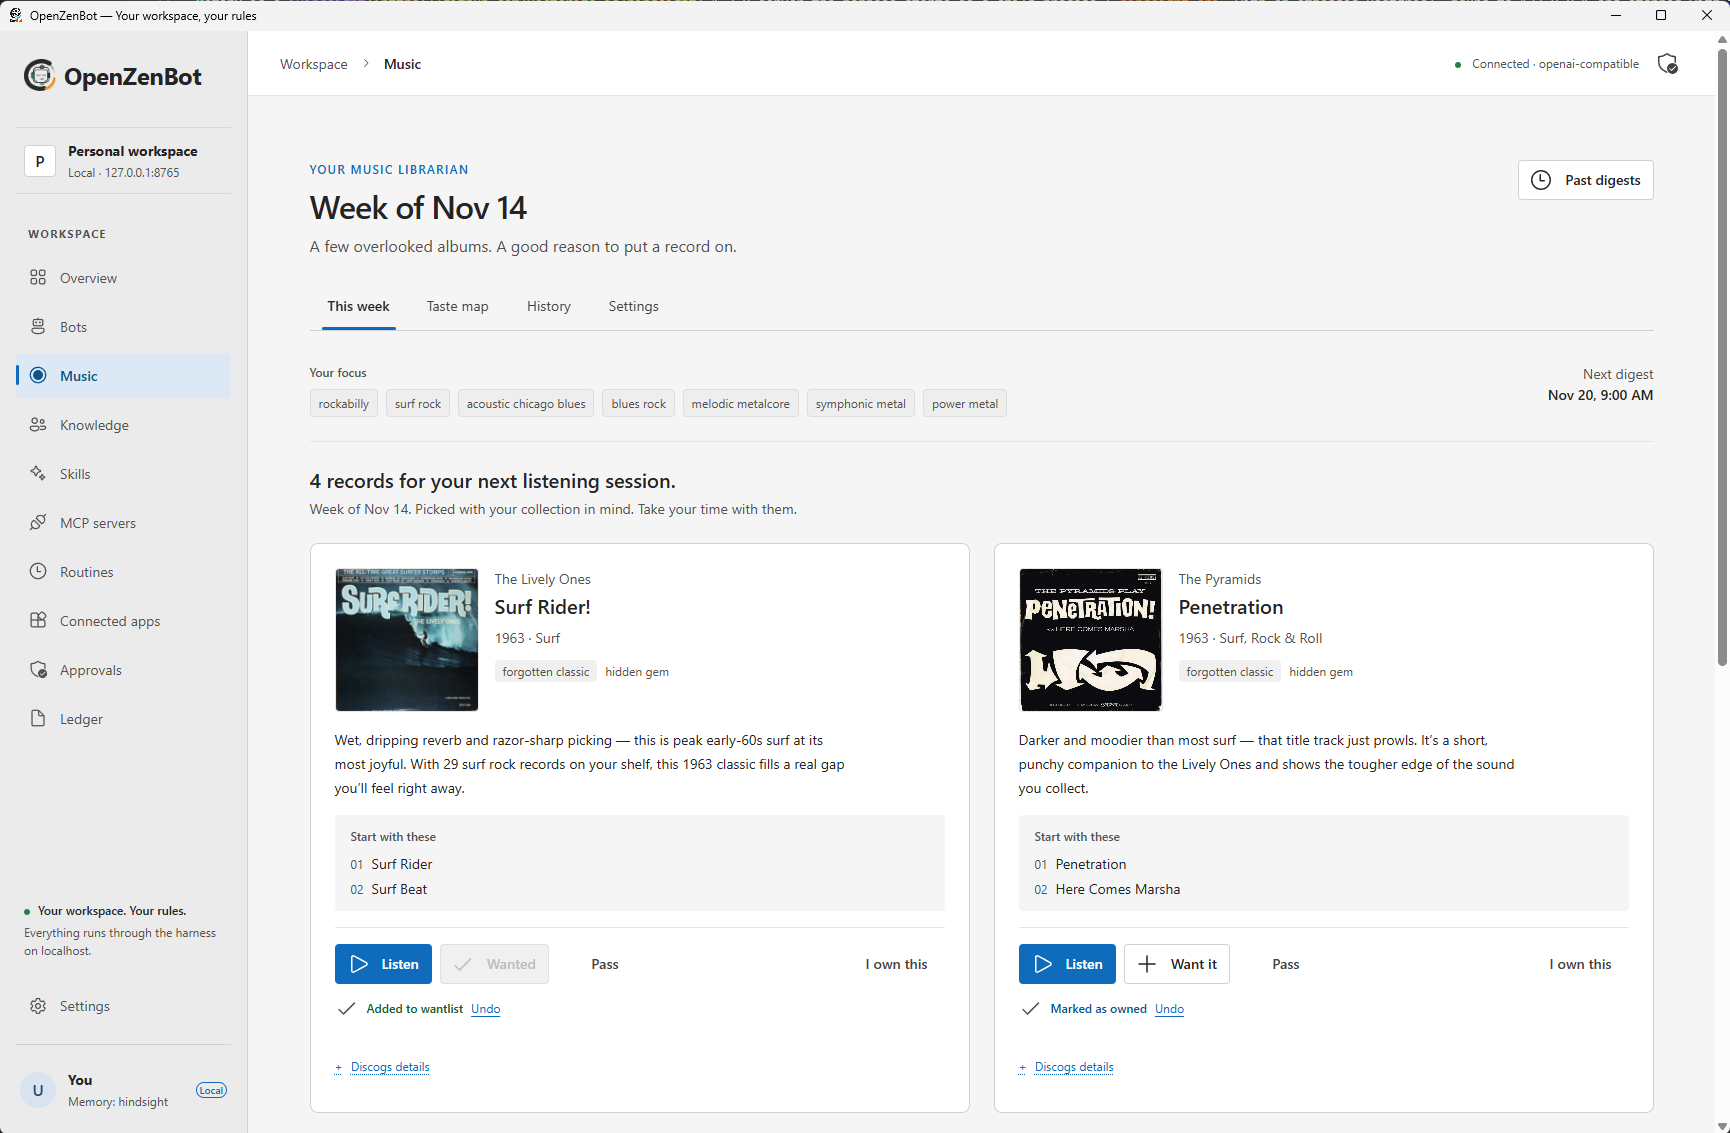
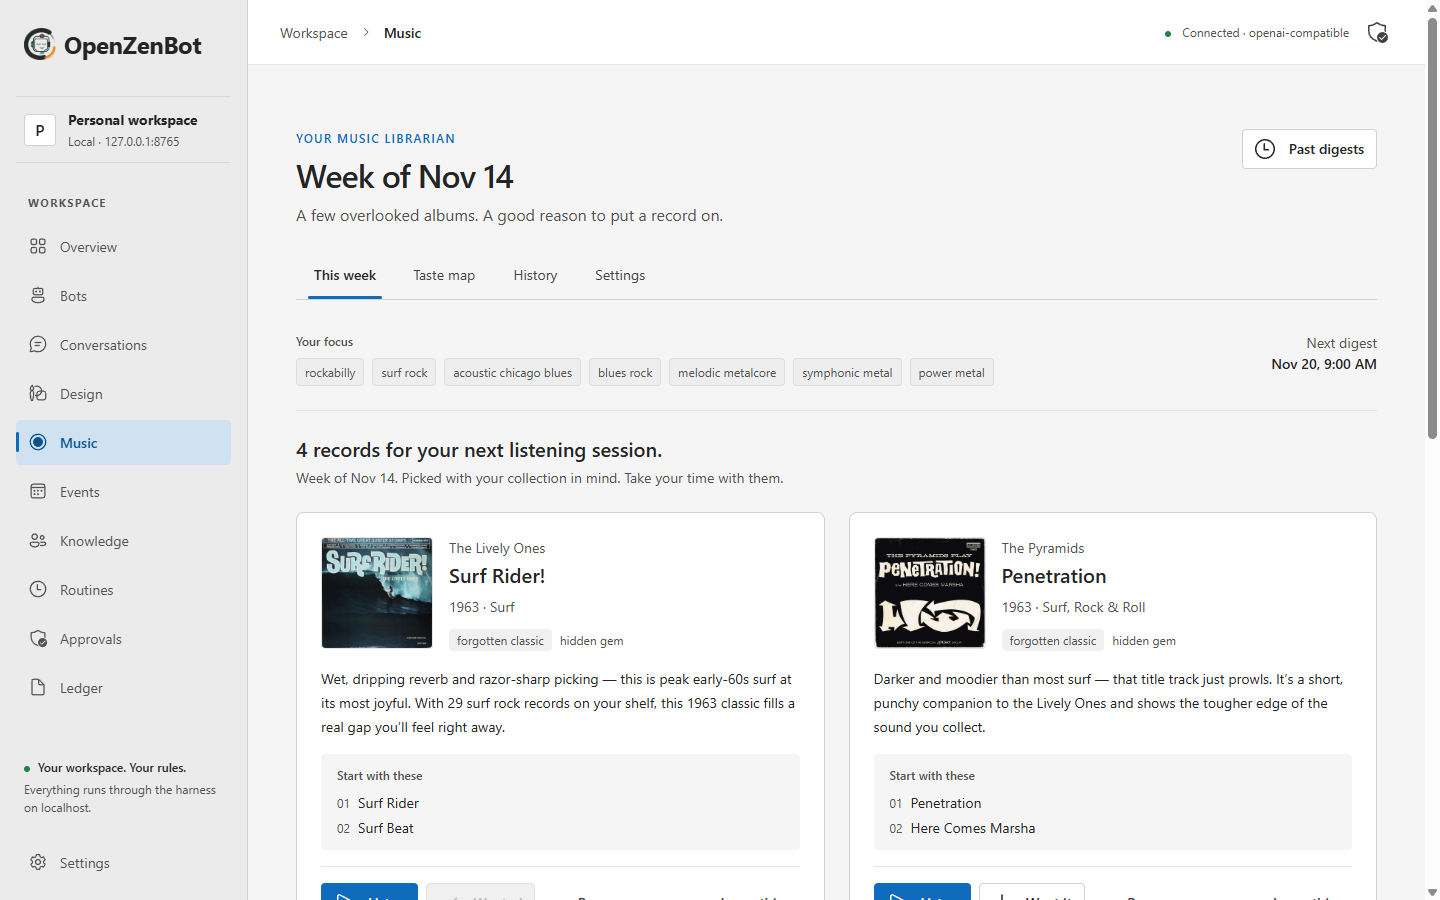
Release 0.1.1: version bump, README for the current app, new screenshots
Claude-Session: https://claude.ai/code/session_01RaiH34eLGo2yzjvBvDEZvT

diff --git a/README.md b/README.md
@@ -4,20 +4,28 @@
   <img src="src/assets/zenbot-logo.png" alt="OpenZenBot logo" width="240">
 </p>
 
-An open-source AI harness that runs on your desktop, remembers what it learns, and helps you get real work done. Bring your own keys.
+An open-source AI workspace for your desktop: local-first, self-learning, and actually useful for daily life. Bring your own keys.
 
-> **Just want to use it? [Download the installer (0.1.0 beta)](https://github.com/ServaboFidem/open-zenbot/releases/tag/v0.1.0)** for Windows or Ubuntu/Debian, then follow [Install](#install). No Python, Node.js or developer tools needed. To run it from the source code, see [Run from source](#run-from-source-development-builds).
+> **Just want to use it? [Download the installer (0.1.1 beta)](https://github.com/ServaboFidem/open-zenbot/releases/tag/v0.1.1)** for Windows or Ubuntu/Debian, then follow [Install](#install). No Python, Node.js or developer tools needed. To run it from the source code, see [Run from source](#run-from-source-development-builds).
 
 > **Status: experimental.** open-zenbot is a passion project, not a product. Expect rough edges, breaking changes and features that are half-built. For more information, see the [wiki](https://github.com/ServaboFidem/open-zenbot/wiki). It is a work in progress: a few pages so far, with more on the way. Where it has no answer yet, this README, `AGENTS.md` and `.env.example` are the best guides.
 
 Inspired by grokbot, open-zenbot is a team of bots that live on your machine. They work in a folder you can see, with tools you choose, and they know a little more each time you use them. It isn't a chat window over a model. Bots run commands, read and write documents, call MCP servers, hand work to each other in rooms, and run routines on a schedule, and every step lands in a ledger you can read.
 
+The goal is three things at once:
+
+- **Local-first.** The app, your data and your settings stay on your computer. A model can run there too.
+- **Self-learning.** It remembers what you tell it and what it finds out, and uses that the next time.
+- **Actually useful for daily life.** Not only for work: it finds records you'd like, events near you worth going to, and keeps your calendar.
+
+![The Overview page: your bots, your routines and what is waiting for your approval](docs/screenshots/overview.png)
+
 ## Why run it
 
-- **It's yours.** The harness and the desktop app run locally, bound to `127.0.0.1`. Your memory, files, conversations and settings live under `~/.zen-agents/` on your own disk. You pick the models and pay the provider directly, or nothing at all: alongside OpenRouter it runs on NVIDIA NIM, vLLM, LM Studio, Ollama or any OpenAI-compatible server (see [Models and providers](#models-and-providers)).
-- **It learns with Hindsight.** Memory is a [Hindsight](https://github.com/vectorize-io/hindsight) knowledge graph the harness runs for you. It learns from a short first-run interview, the files you import, the web pages bots read for you, and facts that come up while you work. A bot recalls only what bears on the task in front of it, and nothing moves into memory every bot can see until you confirm it.
-- **It does the work, not just the talking.** Bots come with a shell, the filesystem, Office and PDF skills, image tools, web search and whatever MCP servers you add. Ask ZenBot for something and it either answers itself or opens a room with the specialist bots that fit the job. Routines run the jobs you repeat. You can record a task in the browser once and keep it as a skill.
-- **It designs with you.** Ask for a web page, a screen or a layout and the Designer bot builds it as a live preview beside the chat. Click any part of the preview to comment on it, and the bot revises the same design (see [Design studio](#design-studio)).
+- **Local-first: it's yours.** The harness and the desktop app run locally, bound to `127.0.0.1`. Your memory, files, conversations, calendar and settings live under `~/.zen-agents/` on your own disk. You pick the models and pay the provider directly, or nothing at all: alongside OpenRouter it runs on NVIDIA NIM, vLLM, LM Studio, Ollama or any OpenAI-compatible server (see [Models and providers](#models-and-providers)). One thing still needs the internet: the decider model runs on OpenRouter.
+- **Self-learning: it remembers.** Memory is a [Hindsight](https://github.com/vectorize-io/hindsight) knowledge graph the harness runs for you. It learns from a short first-run interview, the files you import, the web pages bots read for you, and facts that come up while you work. A bot recalls only what bears on the task in front of it, and nothing moves into memory every bot can see until you confirm it. Work you repeat can be kept too: record a task in the browser once and it becomes a skill, and a skill plus a schedule is a routine.
+- **Useful for daily life.** Each week a bot picks a few albums you don't own from what your record collection says you like (see [Music discovery](#music-discovery)), and another picks local events that fit your interests, which go on the built-in calendar when you say you're going (see [Events and calendar](#events-and-calendar)). Ask for a web page and the Designer builds it beside the chat while you point at what to change (see [Design studio](#design-studio)).
+- **It does the work, not just the talking.** Bots come with a shell, the filesystem, Office and PDF skills, image tools, web search and whatever MCP servers you add. Ask ZenBot for something and it either answers itself or opens a room with the specialist bots that fit the job. A bot can also hand a coding job to Claude Code on your own subscription, in a folder it cannot leave (see [Coding agents](#coding-agents)).
 - **You stay in charge.** Risky actions wait in Approvals: a shell command that writes outside your allowed folders, touches the harness's private folders, or brings a new person into memory. Bots can reach only the vault and the folders you grant them, as Full Access or Read-Only. Keys and settings sit beside the vault, where no bot can read them.
 
 ## Design philosophy
@@ -53,7 +61,7 @@ Routing is a scoring job, not a writing job. Before each task, the router asks t
 
 For people who just want to use OpenZenBot. You do not need Python, Node.js or any developer tools.
 
-1. Open the [0.1.0 beta release](https://github.com/ServaboFidem/open-zenbot/releases/tag/v0.1.0) and download the installer for your computer from its Assets list: the `.exe` for Windows, the `.deb` for Ubuntu or Debian. Later versions appear on the [Releases page](https://github.com/ServaboFidem/open-zenbot/releases).
+1. Open the [0.1.1 beta release](https://github.com/ServaboFidem/open-zenbot/releases/tag/v0.1.1) and download the installer for your computer from its Assets list: the `.exe` for Windows, the `.deb` for Ubuntu or Debian. Later versions appear on the [Releases page](https://github.com/ServaboFidem/open-zenbot/releases).
 2. **Windows:** run `OpenZenBot-Setup-<version>.exe`. The installer is not signed yet, so Windows SmartScreen warns about an unknown publisher: click "More info", then "Run anyway". **Ubuntu or Debian:** open a terminal in the download folder and run `sudo apt install ./OpenZenBot_<version>_amd64.deb`, then start OpenZenBot from your applications menu (or run `openzenbot`).
 3. The first time you start it, OpenZenBot sets itself up. It needs a connection to the internet and about 5 GB of free disk space: it checks first and does not start with less (an update over an existing install needs about 1 GB). The Python environment takes about 2 GB of that on Linux, and roughly 2 GB more is fetched the first time the app starts (models and tool servers). This can take several minutes. You see each step as it happens. This happens once, and again after an update that changes what it needs.
 4. It then asks for an [OpenRouter](https://openrouter.ai/) key. OpenZenBot needs an OpenRouter account for one thing: the decider model, which picks the right skills and tools for each task and checks shell commands before they run. Everything else can run on your own computer or through NVIDIA NIM: the models your bots talk with are your choice, in Settings. The key is kept in your OpenZenBot settings, not in the app.
@@ -156,6 +164,10 @@ Describe a web page, an app screen or a layout, and the Designer bot builds it w
 - **One file you own.** A design is a single HTML file with everything inside it, saved under `~/.zen-agents/vault/designs/`. It opens in any browser, works offline and needs nothing else to go with it.
 - **All your designs in one place.** The Design page shows a card for each design; click one to go back to its conversation.
 
+![The design studio: the conversation with the Designer on the left, the live preview of the page beside it](docs/screenshots/design-studio.png)
+
+![The Design page with a card for each design](docs/screenshots/design-page.png)
+
 The preview is locked down: a bot-made page runs in a sandbox with no access to the network, so nothing in it can load from or send to anywhere.
 
 ## Music discovery
@@ -166,15 +178,52 @@ Music is off until you turn it on. Open Music > Settings, switch it on and enter
 
 The weekly digest also needs a Discogs personal access token (Discogs > Settings > Developers > Generate new token), pasted in the same place. It is saved to `vault-settings/music_keys.json`, owner-only, never to `.env` or the repo. With the token, the Weekly album digest routine (Routines page, or Run now) has the music-librarian bot pick albums you do not own, have not been shown and have not wanted, and each card links to YouTube Music and can be added to your Discogs wantlist. By default it runs on Fridays at 09:00 and picks 4 albums; change the day, time and count in Music > Settings. Without it you still get the Taste map, but no digest and no wantlist.
 
-![A weekly digest: album cards with why each one fits your collection, tracks to start with, and Listen, Want it, Pass and I own this](docs/screenshots/music-suggestions.png)
+![A weekly digest: album cards with why each one fits your collection, and the tracks to start with](docs/screenshots/music-suggestions.png)
 
 The digest is an ordinary routine, so it sits on the Routines page beside any you create, where you can switch it off, edit it or run it now.
 
-![The Routines page with the Weekly album digest routine](docs/screenshots/routines.png)
+![The Routines page with the weekly album digest and the weekly events digest](docs/screenshots/routines.png)
 
 Music data (database, genre atlas, covers) lives in `~/.zen-agents/vault-music/`, beside the vault and out of bots' reach. The atlas is the [Soundlore](https://github.com/aydearcas/Soundlore) genre data, downloaded on first use from a pinned commit and checked against a hash. Most of it is CC0, but the artist-genre links come from MusicBrainz genre votes and are CC BY-NC-SA 3.0, so this feature is for non-commercial use (see [Credits](#data)).
 
+## Events and calendar
+
+The Events page has three tabs: My Calendar, Your Recommendations and All Events. It is new in 0.1.1.
+
+**Your Recommendations.** Event discovery is off until you turn it on. Open Settings > Calendar > Event discovery, switch it on and paste the address of your city's Eventbrite page (for example `https://www.eventbrite.com/d/oh--columbus/events/`), then tick the categories you care about and write a line about your interests. The harness reads that city's public Eventbrite listings for this month and next. Each week the event scout bot picks six to eight of them and says why each one fits you. "Find events now" runs it on the spot. A card links to the event's own page; when you come back and say you signed up, or press Add, the event goes on your calendar.
+
+![Your Recommendations: event cards, each with its date, its place and why it was picked for you](docs/screenshots/events-recommendations.png)
+
+**All Events.** Everything the last read found, as a list you can search, filter by category and date, and sort. Open a row for the details and add it to your calendar from there.
+
+![All Events: the whole list of local events with search, category and date filters](docs/screenshots/events-all.png)
+
+**My Calendar.** A calendar the harness keeps on your computer. It works with no account. You can also connect Google Calendar: you make your own Google app (the steps are on Settings > Calendar) and sign in, and your Google calendars are read into the page. Sending events made here back to Google is a separate switch, off by default, and asks for write access only when you turn it on.
+
+Like the music digest, the weekly events digest is a routine (Thursdays at 09:00 by default), so it sits on the Routines page. The scout reads listings written by strangers, so it is a closed bot: it has no shell, no browser and no file tools, only the three tools that list events and save its picks.
+
+Good to know:
+
+- **This part is the least tested.** Reading Eventbrite, the scout and reading from Google have each run for real, on one computer. Sending events to Google has only run against a test stand-in. A second source, FindLocal (optional, needs your own key), has never been run against the real service.
+- **Eventbrite is read from its public pages**, one request a second, at most 40 pages a refresh, at most twice a day. That is for personal use; Eventbrite's terms on automated access were not checked.
+- **Where it lives.** Calendar and event data are in `~/.zen-agents/vault-calendar/`, beside the vault and outside the folders bots' file tools can reach.
+
+## Coding agents
+
+A bot can hand a coding job to [Claude Code](https://claude.com/claude-code) on your own subscription with the `delegate` tool. It is off until you switch it on at Settings > Coding agents, which shows whether the program was found, its version and whether it is signed in.
+
+- **One folder.** The job runs in a new folder under `~/.zen-agents/vault/delegated/`, or in a folder you allow. The agent gets only the file tools (read, write, edit, search): no commands, no web, none of your own MCP servers, hooks or plugins.
+- **You are asked first.** By default each run waits in Approvals with the agent, the folder and the whole task. A run in a folder the bot named always asks.
+- **Checked as it runs.** The harness stops a run that starts with anything more than those tools, or that names a file outside its folder, and reports what the agent added, changed and removed.
+- **Codex is detected only.** It shows in Settings but cannot be switched on: its sandbox left network access open in testing.
+
+The folder's contents go to Anthropic under your account, and the run spends your subscription.
+
 ## Using the app
+
+Settings opens on a page of tiles with a search box over every setting: models and providers, MCP servers and their keys, skills, coding agents, Allowed Folders, the calendar and the rest.
+
+![The Settings home page: a search box and a tile for each group of settings](docs/screenshots/settings.png)
 
 Images, video, PDFs, diagrams and files in a bot's reply show under it as preview cards, in rooms and in one-to-one chat. Each card has Save…, which opens the system save dialog in the last folder you saved to (Pictures or Downloads the first time); images and video also have Open and Copy link, and PDFs and diagrams open larger with View. Remote media loads through the harness: hosts on the trusted list (Pexels, plus `ZEN_MEDIA_TRUSTED_HOSTS`) load at once, and any other host waits until you click Load. A bot shares a file it made with `attach_file`.
 
@@ -207,16 +256,19 @@ OPENROUTER_API_KEY=... uv run pytest -k live   # opt-in live check
 
 | Path | What |
 | --- | --- |
-| `src/providers/` | Provider interface, registry, secrets, OpenRouter adapter |
+| `src/providers/` | Provider interface, registry, secrets, OpenRouter and OpenAI-compatible adapters, model fingerprinting |
 | `src/music/` | Music discovery: Discogs scan, taste profile, album gate, digests |
+| `src/events/` | The built-in calendar and Google sync; event discovery: the Eventbrite and FindLocal readers, the event pool, digests |
+| `src/rooms/` | Rooms, turns, handoff, the orchestrator that picks bots for a job |
+| `src/context/` | Compaction and the protected (pinned) task |
 | `src/skills/` | `SKILL.md` loader and the catalog |
 | `src/decider/` | Decider interface, scorer registry, band and supervisor logic, `adapters/` (microsoft-decision-1 on the OpenRouter Decisions API) |
 | `src/generation/` | Generator boundary: summaries, compaction folds, vault summaries. The only place prose is written |
-| `src/memory/` | Exclusion filter (secrets and approvals), ledger |
-| `src/harness/` | Bot, task loop, approvals, pause, tools, HTTP API, entry point |
+| `src/memory/` | Exclusion filter (secrets and approvals), ledger, recall, imports, the Hindsight store |
+| `src/harness/` | Bot, task loop, approvals, pause, tools, HTTP API, entry point; the folder and shell guards, the design studio, delegation to coding agents |
 | `skills/` | Shipped skills: a few of our own, plus vendored third-party skills (see [Credits](#credits)) |
 | `mcp.json` | MCP servers to connect at start (Claude Desktop shape); each tool registers as `<server>.<tool>` and the server is routed like a skill |
-| `bot-prompts/` | One markdown file per bot identity (ships `personal-assistant`, the onboarding bot): `name` and `role` in frontmatter, optional `skills` refs, instructions in the body. The file stem is the bot id. The harness loads it at start and writes it when a bot is created or edited in the app |
+| `bot-prompts/` | One markdown file per bot identity (nine ship, among them `personal-assistant`, `designer`, `music-librarian` and `event-scout`): `name` and `role` in frontmatter, optional `skills` refs, instructions in the body. The file stem is the bot id. The harness loads it at start and writes it when a bot is created or edited in the app |
 | `src/gui/` | OpenZenBot workspace GUI: React + Fluent 2 renderer, built by `npm run build` into `dist/` |
 | `src/electron/` | Electron main and preload; serves `dist/` from the `app://openzenbot` origin |
 | `tests/gui/` | Node tests for the GUI client, adapters, and shell (`npm test`) |
